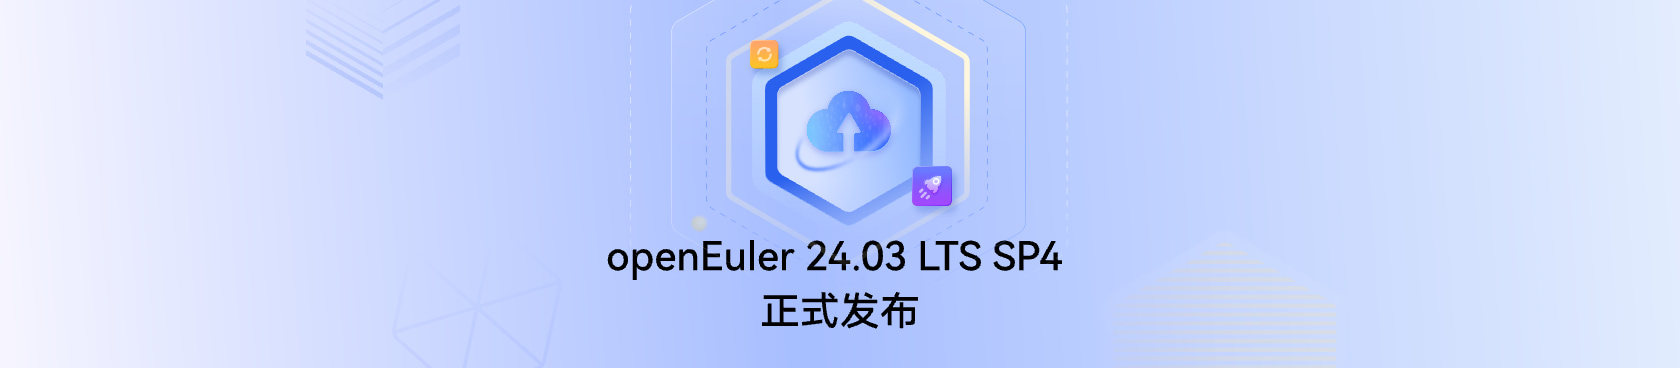
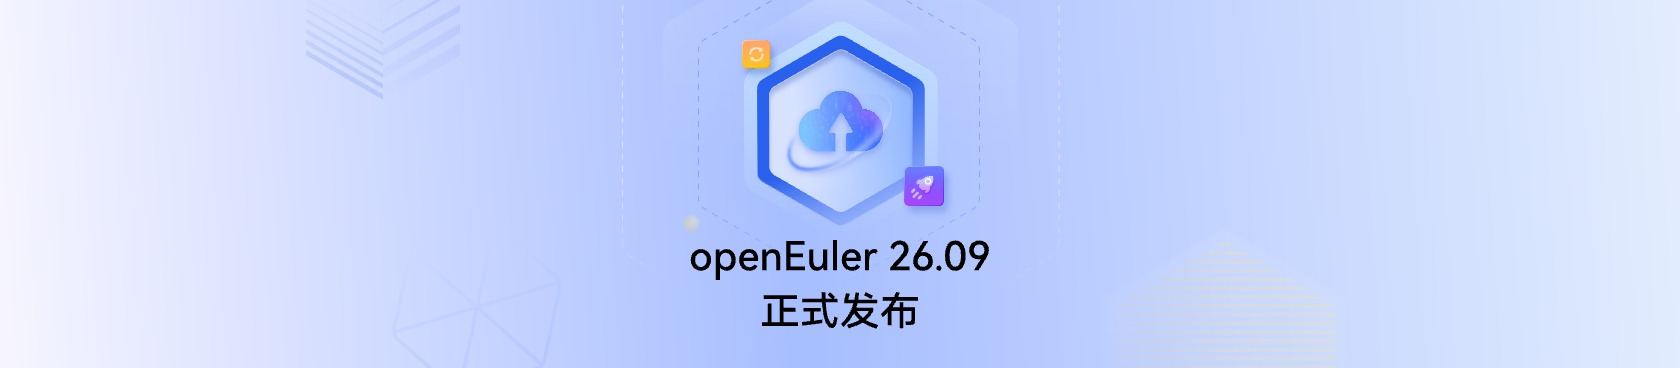
feat: 上架openEuler 26.09版本banner Co-Authored-By: alibaba-cn/glm-5.2

diff --git a/tests/home-banner-release-26-09.test.ts b/tests/home-banner-release-26-09.test.ts
@@ -1,0 +1,254 @@
+import { expect, describe, it } from 'vitest';
+import fs from 'node:fs';
+import path from 'node:path';
+import yaml from 'js-yaml';
+import { foldI18n } from '../app/.vitepress/src-new/shared/content';
+
+const PROJECT_ROOT = process.cwd();
+const BANNER_YAML_PATH = path.join(PROJECT_ROOT, '.content/home/banner.yaml');
+const IMAGES_DIR = path.join(PROJECT_ROOT, '.content/home/images/release');
+
+function parseBannerYaml() {
+  const content = fs.readFileSync(BANNER_YAML_PATH, 'utf8');
+  return yaml.load(content) as Record<string, any>[];
+}
+
+function isValidJpg(filePath: string): boolean {
+  const buf = fs.readFileSync(filePath);
+  return buf[0] === 0xff && buf[1] === 0xd8 && buf[2] === 0xff;
+}
+
+// 复刻 HomeBanner.vue:30 的 locale 过滤逻辑：
+//   foldI18n(banners, locale).filter(item => !item.locale || item.locale.split(',').includes(locale))
+function visibleBanners(locale: 'zh' | 'en') {
+  const banners = parseBannerYaml();
+  return foldI18n(banners, locale)
+    .filter((item: any) => !item.locale || item.locale.split(',').includes(locale));
+}
+
+describe('banner.yaml — release 条目原地替换为 openEuler 26.09（设计 §3）', () => {
+  const banners = parseBannerYaml();
+  // 按内容定位条目，避免对列表顺序的硬编码假设
+  const entry = banners.find((b) => b.bg_pc && b.bg_pc.includes('images/release/'));
+
+  it('banner.yaml 可解析为非空数组', () => {
+    expect(Array.isArray(banners)).toBe(true);
+    expect(banners.length).toBeGreaterThanOrEqual(5);
+  });
+
+  it('release 条目存在于轮播列表中', () => {
+    expect(entry).toBeDefined();
+    expect(entry.bg_pc).toContain('images/release/');
+  });
+
+  it('title_zh 为 "openEuler 26.09 正式发布"（设计 §3 关键改动点）', () => {
+    expect(entry.title_zh).toBe('openEuler 26.09 正式发布');
+  });
+
+  it('locale 为 zh（仅中文首页展示，英文首页无 release banner，与 24.03 行为一致）', () => {
+    expect(entry.locale).toBe('zh');
+  });
+
+  it('bg_mb 指向 ./images/release/mb.jpg（覆盖后的 26.09 移动端图）', () => {
+    expect(entry.bg_mb).toBe('./images/release/mb.jpg');
+  });
+
+  it('条目使用共用 bg_mb（无 bg_mb_zh / bg_mb_en 后缀，移动端图文案烘焙进图）', () => {
+    expect(entry.bg_mb).toBeDefined();
+    expect(entry.bg_mb_zh).toBeUndefined();
+    expect(entry.bg_mb_en).toBeUndefined();
+  });
+
+  it('bg_pc / bg_pad 复用现有 release 背景图（设计 §3：PC/Pad 不动）', () => {
+    expect(entry.bg_pc).toBe('./images/release/pc.jpg');
+    expect(entry.bg_pad).toBe('./images/release/pad.jpg');
+  });
+
+  it('bg_theme 为 light', () => {
+    expect(entry.bg_theme).toBe('light');
+  });
+
+  it('btn_zh 为 "下载"', () => {
+    expect(entry.btn_zh).toBe('下载');
+  });
+
+  it('href_zh 为 /zh/download（去版本锚点，设计 §3 / §4 边界）', () => {
+    expect(entry.href_zh).toBe('/zh/download');
+  });
+
+  it('href_zh 不再含 24.03 LTS SP4 版本锚点（回归守卫）', () => {
+    expect(entry.href_zh).not.toContain('24.03');
+    expect(entry.href_zh).not.toContain('LTS');
+    expect(entry.href_zh).not.toContain('SP4');
+    expect(entry.href_zh).not.toContain('#');
+  });
+
+  it('is_blank 为 true（新窗口打开）', () => {
+    expect(entry.is_blank).toBe(true);
+  });
+
+  it('条目仅提供 _zh 字段，无 _en 字段（locale 限定单语条目）', () => {
+    expect(entry.title_zh).toBeDefined();
+    expect(entry.btn_zh).toBeDefined();
+    expect(entry.href_zh).toBeDefined();
+    expect(entry.title_en).toBeUndefined();
+    expect(entry.btn_en).toBeUndefined();
+    expect(entry.href_en).toBeUndefined();
+  });
+
+  it('图片路径使用相对路径 ./images/ 前缀', () => {
+    expect(entry.bg_pc).toMatch(/^\.\//);
+    expect(entry.bg_pad).toMatch(/^\.\//);
+    expect(entry.bg_mb).toMatch(/^\.\//);
+  });
+});
+
+describe('release 轮播图片资源（设计 §3 / §4 边界 / §6 预览清单）', () => {
+  const requiredImages = ['pc.jpg', 'pad.jpg', 'mb.jpg'];
+
+  requiredImages.forEach((img) => {
+    it(`${img} 文件存在`, () => {
+      const p = path.join(IMAGES_DIR, img);
+      expect(fs.existsSync(p), `${img} 应存在于 ${IMAGES_DIR}`).toBe(true);
+    });
+
+    it(`${img} 文件非空`, () => {
+      const p = path.join(IMAGES_DIR, img);
+      const stat = fs.statSync(p);
+      expect(stat.size, `${img} 文件大小应大于 0`).toBeGreaterThan(0);
+    });
+
+    it(`${img} 是合法 JPEG 格式（FF D8 FF 签名校验）`, () => {
+      const p = path.join(IMAGES_DIR, img);
+      expect(isValidJpg(p), `${img} 应为合法 JPEG`).toBe(true);
+    });
+
+    it(`${img} 文件大小合理（10KB~2MB，避免 broken image / 体积过大）`, () => {
+      const p = path.join(IMAGES_DIR, img);
+      const size = fs.statSync(p).size;
+      expect(size, `${img} 应 ≥ 10KB`).toBeGreaterThanOrEqual(10 * 1024);
+      expect(size, `${img} 应 ≤ 2MB`).toBeLessThanOrEqual(2 * 1024 * 1024);
+    });
+  });
+
+  it('mb.jpg 已被 26.09 图覆盖（体积与 24.03 旧图 103377B 不同，设计 §3 改动点）', () => {
+    const p = path.join(IMAGES_DIR, 'mb.jpg');
+    const size = fs.statSync(p).size;
+    expect(size, '覆盖后 mb.jpg 体积应不同于旧 24.03 图(103377B)').not.toBe(103377);
+  });
+});
+
+describe('回归守卫 — 不应再存在 24.03 LTS SP4 release banner（设计 §5 测试策略）', () => {
+  const banners = parseBannerYaml();
+
+  it('release 条目 title_zh 不含 "24.03 LTS SP4 正式发布"', () => {
+    const releaseEntry = banners.find((b) => b.bg_pc && b.bg_pc.includes('images/release/'));
+    expect(releaseEntry).toBeDefined();
+    expect(releaseEntry.title_zh).not.toBe('openEuler 24.03 LTS SP4 正式发布');
+    expect(releaseEntry.title_zh).not.toContain('24.03 LTS SP4');
+  });
+
+  it('banner.yaml 中无任何条目的 title_zh 为 "openEuler 24.03 LTS SP4 正式发布"', () => {
+    const stale = banners.filter((b) => b.title_zh === 'openEuler 24.03 LTS SP4 正式发布');
+    expect(stale, '不应残留 24.03 LTS SP4 release banner').toHaveLength(0);
+  });
+
+  it('release 条目 href_zh 不含 24.03 LTS SP4 锚点', () => {
+    const releaseEntry = banners.find((b) => b.bg_pc && b.bg_pc.includes('images/release/'));
+    expect(releaseEntry.href_zh).not.toContain('#openEuler%2024.03');
+  });
+});
+
+describe('foldI18n — release 条目 _zh 字段折叠为基线字段（设计 §2 数据流转）', () => {
+  const banners = parseBannerYaml();
+  const rawEntry = banners.find((b) => b.bg_pc && b.bg_pc.includes('images/release/'));
+
+  it('zh locale 下 title_zh 折叠为 title', () => {
+    const result = foldI18n(rawEntry, 'zh') as Record<string, any>;
+    expect(result.title).toBe('openEuler 26.09 正式发布');
+    expect(result.title_zh).toBeUndefined();
+    expect(result.title_en).toBeUndefined();
+  });
+
+  it('zh locale 下 btn_zh 折叠为 btn', () => {
+    const result = foldI18n(rawEntry, 'zh') as Record<string, any>;
+    expect(result.btn).toBe('下载');
+    expect(result.btn_zh).toBeUndefined();
+  });
+
+  it('zh locale 下 href_zh 折叠为 href', () => {
+    const result = foldI18n(rawEntry, 'zh') as Record<string, any>;
+    expect(result.href).toBe('/zh/download');
+    expect(result.href_zh).toBeUndefined();
+  });
+
+  it('bg_mb 无后缀字段在 zh locale 下保持不变（中英文共用）', () => {
+    const result = foldI18n(rawEntry, 'zh') as Record<string, any>;
+    expect(result.bg_mb).toBe('./images/release/mb.jpg');
+  });
+
+  it('非 i18n 字段（bg_pc, bg_pad, bg_theme, locale, is_blank）保持不变', () => {
+    const result = foldI18n(rawEntry, 'zh') as Record<string, any>;
+    expect(result.bg_pc).toBe('./images/release/pc.jpg');
+    expect(result.bg_pad).toBe('./images/release/pad.jpg');
+    expect(result.bg_theme).toBe('light');
+    expect(result.locale).toBe('zh');
+    expect(result.is_blank).toBe(true);
+  });
+});
+
+describe('locale 过滤 — zh 可见 / en 不可见（设计 §2 / §4 i18n 单语）', () => {
+  it('zh locale 下 release 条目出现在可见列表中且文案为 26.09', () => {
+    const visible = visibleBanners('zh');
+    const entry = visible.find((b: any) => b.bg_pc && b.bg_pc.includes('images/release/'));
+    expect(entry).toBeDefined();
+    expect(entry.title).toBe('openEuler 26.09 正式发布');
+    expect(entry.href).toBe('/zh/download');
+  });
+
+  it('en locale 下 release 条目被过滤掉（locale: zh 不含 en）', () => {
+    const visible = visibleBanners('en');
+    const entry = visible.find((b: any) => b.bg_pc && b.bg_pc.includes('images/release/'));
+    expect(entry).toBeUndefined();
+  });
+});
+
+describe('useScreen 三端 bg 选择逻辑（设计 §2 数据流转）', () => {
+  const banners = parseBannerYaml();
+  const rawEntry = banners.find((b) => b.bg_pc && b.bg_pc.includes('images/release/'));
+
+  // 复刻 HomeBanner.vue:48-54 的三端选图逻辑
+  function selectBg(item: Record<string, any>, screen: 'gtPad' | 'isPad' | 'isPhone') {
+    const folded = foldI18n(item, 'zh') as Record<string, any>;
+    if (screen === 'gtPad') return folded.bg_pc || item.bg_pc;
+    if (screen === 'isPad') return folded.bg_pad || item.bg_pad;
+    return folded.bg_mb || item.bg_mb;
+  }
+
+  it('PC 端（gtPad）选择 bg_pc', () => {
+    expect(selectBg(rawEntry, 'gtPad')).toBe('./images/release/pc.jpg');
+  });
+
+  it('PAD 端（isPad）选择 bg_pad', () => {
+    expect(selectBg(rawEntry, 'isPad')).toBe('./images/release/pad.jpg');
+  });
+
+  it('移动端（isPhone）选择 bg_mb（覆盖后的 26.09 图）', () => {
+    expect(selectBg(rawEntry, 'isPhone')).toBe('./images/release/mb.jpg');
+  });
+
+  it('三端 bg 均不为空（避免 OFigure broken image）', () => {
+    expect(selectBg(rawEntry, 'gtPad')).toBeTruthy();
+    expect(selectBg(rawEntry, 'isPad')).toBeTruthy();
+    expect(selectBg(rawEntry, 'isPhone')).toBeTruthy();
+  });
+
+  it('三端 bg 对应的物理图片文件均存在', () => {
+    const screens = ['gtPad', 'isPad', 'isPhone'] as const;
+    for (const s of screens) {
+      const bg = selectBg(rawEntry, s).replace(/^\.\//, '');
+      const absPath = path.join(PROJECT_ROOT, '.content/home', bg);
+      expect(fs.existsSync(absPath), `${s} 对应图片应存在: ${absPath}`).toBe(true);
+    }
+  });
+});
